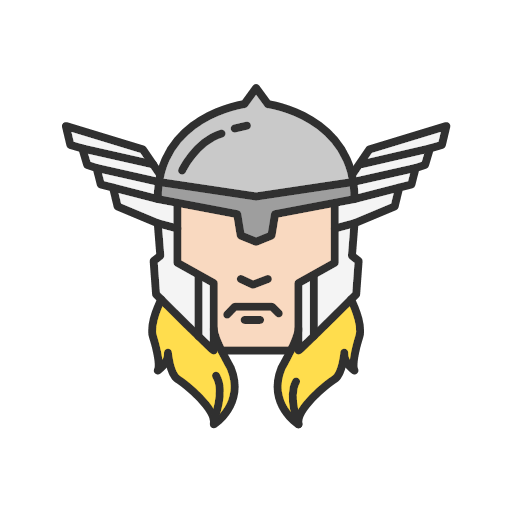
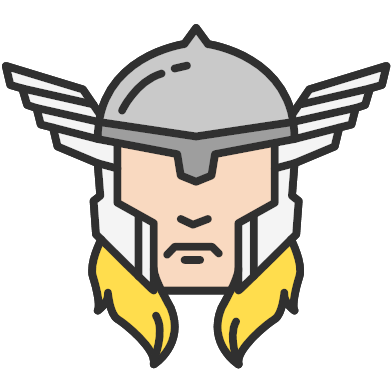
Added ability to add new heroes.

diff --git a/src/components/App.tsx b/src/components/App.tsx
@@ -1,33 +1,37 @@
 import { useState } from "react";
-import Welcome from "./Welcome";
-import SidePanel from "./SidePanel";
+import SidePanel from "./controls/SidePanel";
 import Map from "./Map";
 import { LatLngTuple } from "leaflet";
-import { Icon } from "leaflet";
-
-const positions = {
-  azrieli: [32.07, 34.79],
-  oslo: [59.91, 10.75],
-};
 
 const App = () => {
-  const [ready, setReady] = useState<boolean>(false);
-  const [avatar, setAvatar] = useState<Icon>();
+  const [avatars, setAvatars] = useState(Array);
 
-  if (!ready) {
-    return (
-      <Welcome
-        setReady={() => setReady(true)}
-        setAvatar={(Avatar: Icon) => setAvatar(Avatar)}
-      />
-    );
-  }
   return (
-    <div style={{ height: "100%", display: "flex" }}>
-      <div style={{ width: "20px" }}>
-        <SidePanel />
+    <div
+      style={{
+        height: "100%",
+        display: "flex",
+      }}
+    >
+      <div
+        style={{
+          width: "100%",
+          height: "100%",
+          zIndex: 1,
+          position: "absolute",
+        }}
+      >
+        <Map mapStart={[32.07, 34.79]} avatars={avatars} />
       </div>
-      <Map pos={positions.azrieli} avatar={avatar} />
+      <div
+        style={{
+          zIndex: 2,
+          margin: "10px",
+          position: "absolute",
+        }}
+      >
+        <SidePanel addHero={(hero: any) => setAvatars([...avatars, hero])} />
+      </div>
     </div>
   );
 };

diff --git a/src/components/Map.tsx b/src/components/Map.tsx
@@ -1,26 +1,38 @@
 import { LatLngTuple, Icon } from "leaflet";
-import { MapContainer, TileLayer, Marker, Popup } from "react-leaflet";
+import {
+  MapContainer,
+  TileLayer,
+  Marker,
+  Popup,
+  ZoomControl,
+} from "react-leaflet";
 
-const Map = (props: { pos: any; avatar: any }) => {
-  const { pos, avatar } = props;
+const Map = (props: { mapStart: any; avatars: any }) => {
+  const { mapStart, avatars } = props;
+
+  const markers = avatars.map((avatar: any) => (
+    <Marker position={avatar.position} icon={avatar.icon} draggable>
+      <Popup>
+        Run, <br /> Adam!
+      </Popup>
+    </Marker>
+  ));
 
   return (
     <MapContainer
-      center={pos}
-      zoom={10}
+      center={mapStart}
+      zoom={3}
       scrollWheelZoom={true}
+      zoomControl={false}
       style={{ height: "100%", width: "100%" }}
     >
+      <ZoomControl position="bottomright"></ZoomControl>
       <TileLayer
         attribution='&copy; <a href="http://osm.org/copyright">OpenStreetMap</a> contributors'
         url="https://{s}.tile.openstreetmap.org/{z}/{x}/{y}.png"
       />
 
-      <Marker position={pos} icon={avatar}>
-        <Popup>
-          Run, <br /> Adam!
-        </Popup>
-      </Marker>
+      {markers}
     </MapContainer>
   );
 };

diff --git a/src/components/controls/HeroAdder.tsx b/src/components/controls/HeroAdder.tsx
@@ -1,0 +1,46 @@
+import IronMan from "../avatars/IronMan";
+import Thor from "../avatars/Thor";
+import Adam from "../avatars/Adam";
+
+const heroes = [IronMan, Thor, Adam];
+
+const HeroAdder = (props: any) => {
+  const { addHero } = props;
+  const avatarChoices = heroes.map((hero: any) => (
+    <img
+      alt={hero.name}
+      src={hero.img}
+      onClick={() => addHero(hero.avatar)}
+      style={{
+        height: "120px",
+        width: "auto",
+        padding: "5px",
+        cursor: "pointer",
+      }}
+    />
+  ));
+
+  return (
+    <div
+      style={{
+        textAlign: "center",
+        font: "30px Impact, sans-serif",
+        height: "100%",
+        width: "100%",
+      }}
+    >
+      <h1>Choose your hero</h1>
+      <div
+        style={{
+          display: "flex",
+          justifyContent: "center",
+          flexWrap: "wrap",
+        }}
+      >
+        {avatarChoices}
+      </div>
+    </div>
+  );
+};
+
+export default HeroAdder;

diff --git a/src/components/controls/ToggleControls.tsx b/src/components/controls/ToggleControls.tsx
@@ -1,0 +1,30 @@
+import { Tooltip, Fab } from "@material-ui/core";
+import MenuIcon from "@material-ui/icons/Menu";
+import { useState } from "react";
+
+const ToggleControls = (props: any) => {
+  const { openPanel } = props;
+  const [color, setColor] = useState("gray");
+
+  return (
+    <div>
+      <Tooltip title="Controls" aria-label="controls">
+        <Fab
+          onClick={() => openPanel()}
+          onMouseOver={() => setColor("white")}
+          onMouseOut={() => setColor("gray")}
+          style={{
+            cursor: "pointer",
+            height: "60px",
+            width: "60px",
+            color: color,
+          }}
+        >
+          <MenuIcon style={{ fontSize: "40px" }} />
+        </Fab>
+      </Tooltip>
+    </div>
+  );
+};
+
+export default ToggleControls;

diff --git a/src/components/controls/SidePanel.tsx b/src/components/controls/SidePanel.tsx
@@ -1,0 +1,32 @@
+import { useState } from "react";
+import { Drawer } from "@material-ui/core";
+import ToggleControls from "./ToggleControls";
+import HeroAdder from "./HeroAdder";
+
+const SidePanel = (props: any) => {
+  const { addHero } = props;
+
+  const [open, setOpen] = useState(false);
+
+  return (
+    <>
+      <ToggleControls openPanel={() => setOpen(true)} />
+
+      <Drawer anchor={"left"} open={open} onClose={() => setOpen(false)}>
+        <div
+          style={{
+            backgroundColor: "#686868",
+            color: "#D1D1D1",
+            width: "300px",
+            height: "100%",
+            padding: "10px",
+          }}
+        >
+          <HeroAdder addHero={addHero} />
+        </div>
+      </Drawer>
+    </>
+  );
+};
+
+export default SidePanel;

diff --git a/src/components/avatars/Thor.tsx b/src/components/avatars/Thor.tsx
@@ -1,9 +1,19 @@
 import L from "leaflet";
 import ThorImg from "../../img/thor.png";
+import locations from "../../utils/locations";
 
-const ThorAvatar = new L.Icon({
+const icon = new L.Icon({
   iconUrl: ThorImg,
-  iconSize: new L.Point(70, 70),
+  iconSize: new L.Point(60, 60),
 });
+
+const ThorAvatar = {
+  name: "Thor",
+  img: ThorImg,
+  avatar: {
+    icon,
+    position: locations.oslo,
+  },
+};
 
 export default ThorAvatar;

diff --git a/src/components/avatars/IronMan.tsx b/src/components/avatars/IronMan.tsx
@@ -1,9 +1,19 @@
 import L from "leaflet";
 import IronManImg from "../../img/iron_man.png";
+import locations from "../../utils/locations";
 
-const IronManAvatar = new L.Icon({
+const icon = new L.Icon({
   iconUrl: IronManImg,
   iconSize: new L.Point(30, 50),
 });
+
+const IronManAvatar = {
+  name: "Iron Man",
+  img: IronManImg,
+  avatar: {
+    icon,
+    position: locations.avengers,
+  },
+};
 
 export default IronManAvatar;

diff --git a/src/components/avatars/Adam.tsx b/src/components/avatars/Adam.tsx
@@ -1,0 +1,19 @@
+import L from "leaflet";
+import AdamImg from "../../img/adam.png";
+import locations from "../../utils/locations";
+
+const icon = new L.Icon({
+  iconUrl: AdamImg,
+  iconSize: new L.Point(50, 50),
+});
+
+const AdamAvatar = {
+  name: "Adam",
+  img: AdamImg,
+  avatar: {
+    icon,
+    position: locations.abbottabad,
+  },
+};
+
+export default AdamAvatar;

diff --git a/src/utils/locations.tsx b/src/utils/locations.tsx
@@ -1,0 +1,8 @@
+const locations = {
+  azrieli: [32.07, 34.79],
+  oslo: [59.91, 10.75],
+  avengers: [40.77, -73.96],
+  abbottabad: [34.9, 73.13],
+};
+
+export default locations;
